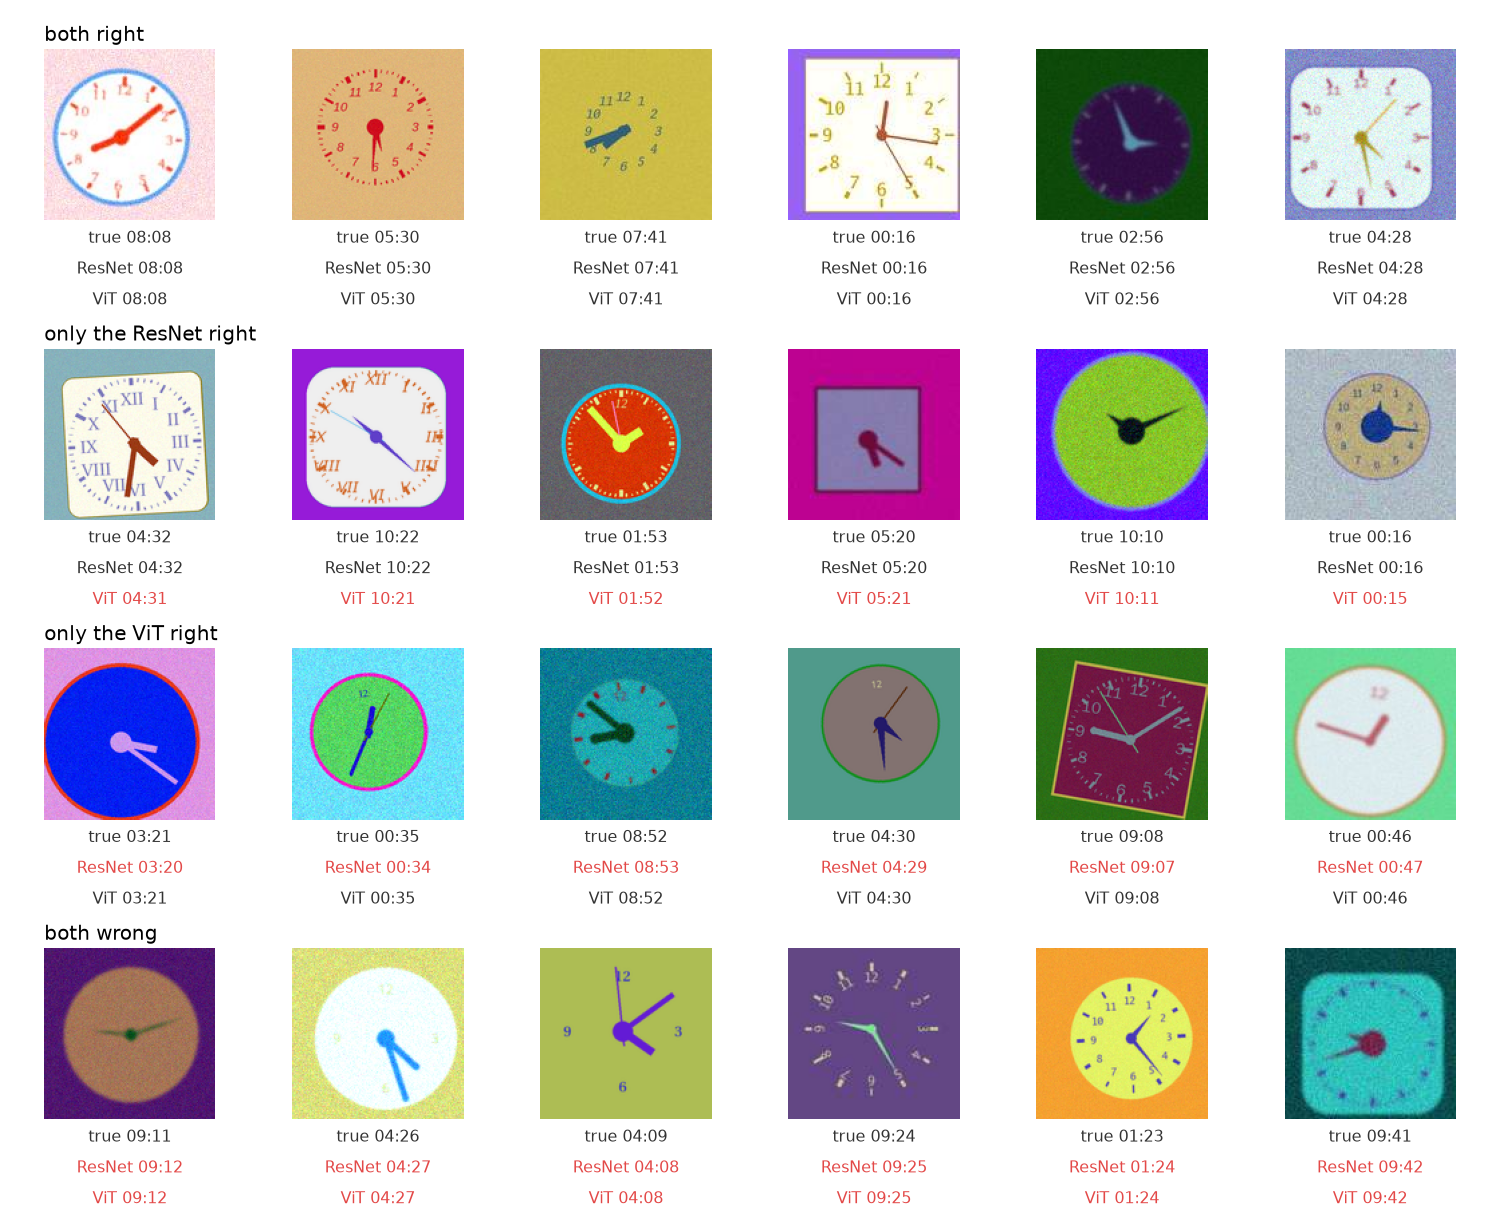
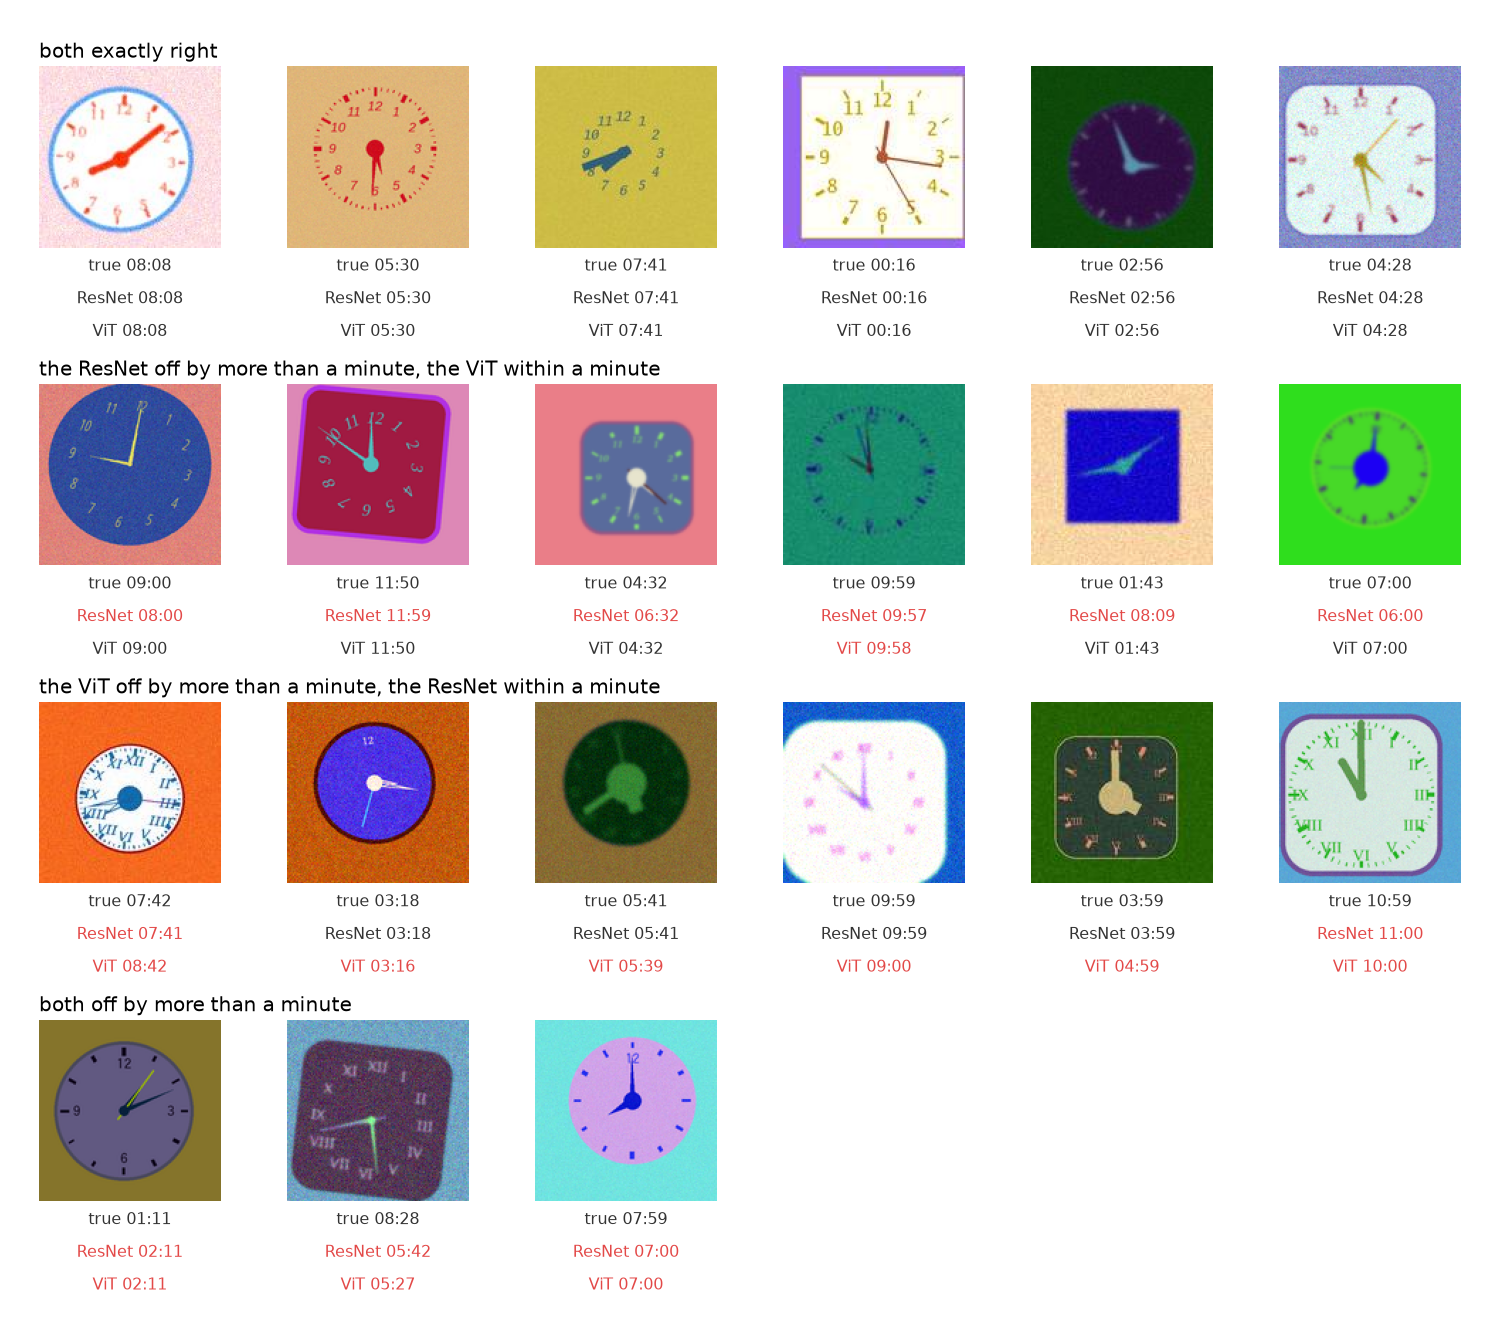
Part 3: wrong panels show only misses of more than a minute, and say why

diff --git a/_posts/2026-09-15-clocks-part-3-evaluation.md b/_posts/2026-09-15-clocks-part-3-evaluation.md
@@ -48,9 +48,22 @@ $$(\hat m - m + 30) \bmod 60 - 30$$ tells early from late.
 | vit_tiny | 0.544 | 0.946 | 0.549 | 0.892 | 1.1 min |
 
 Read across a row: the hour is almost never wrong, the minute is wrong one
-time in ten, and nearly all of those are within one minute. Whatever the
-models are doing, they are not confused about which clock they're looking
-at.
+time in ten, and nearly all of those are within one minute. Counting the
+hour and minute together as one time on a 12-hour dial, so that 3:59 read
+as 4:00 is one minute off rather than an hour and a minute:
+
+| held-out fonts, 10,000 clocks | exactly right | one minute off | more than a minute off |
+|---|---|---|---|
+| cnn_r34 | 8,938 | 1,035 | 27 |
+| vit_tiny_v2 (86 ep) | 8,986 | 1,002 | 12 |
+
+That last column is the one to keep in mind. A one-minute miss on a hand
+that is most of the way to the next mark is a call a person would make
+too, and Part 3 shows below that it's the renderer's doing. So the panels
+in this post that show the models getting it *wrong* show only the last
+column: the 27 and the 12 clocks in ten thousand where a model was off by
+more than a minute. Those are the real mistakes, and they're rare enough
+to look at one by one.
 
 ## What the predictions look like
 
@@ -59,7 +72,9 @@ Below, each model's answer is drawn as a pair of hands over the clock it
 was given: red for the ResNet, blue for the ViT, each with a black and
 white halo so it shows on any background, and the labelled time as thin
 yellow dashes on top. The clock itself is shown at a third of its colour
-saturation so the hands stand out from it. Where all three coincide, the model
+saturation so the hands stand out from it. The first row is clocks both
+models read exactly; the second and third are clocks where the ResNet, or
+the ViT, was off by more than a minute. Where all three coincide, the model
 read the clock. The clocks are from the held-out set, so every typeface
 here is one the models never saw. The geometry for the overlay comes from
 re-rendering each test image from its seed, which reproduces it pixel for
@@ -70,7 +85,7 @@ the models saw, only paler ([Figure 3.1](#fig-3-1)).
 
 ![Predicted hands from both models, ResNet in red and ViT in blue, drawn over twelve held-out clocks in three rows: both right, one wrong, both wrong](/assets/clocks/overlay_heldout.png){: .no-invert}
 
-**Figure 3.1.** Predicted hands from both models, ResNet in red and ViT in blue, drawn over twelve held-out clocks in three rows: both right, one wrong, both wrong.
+**Figure 3.1.** Predicted hands from both models, ResNet in red and ViT in blue, drawn over twelve held-out clocks: a row where both are exactly right, a row where the ResNet is off by more than a minute, a row where the ViT is.
 {: .figcap #fig-3-1}
 
 In the top row the three sets of hands are on top of each other. In the
@@ -89,21 +104,21 @@ points ([Figure 3.2](#fig-3-2)).
 
 ![Six held-out clocks, each beside a clean clock drawn from the ResNet's reading in red and one from the ViT's reading in blue](/assets/clocks/readback_heldout.png){: .no-invert}
 
-**Figure 3.2.** Six held-out clocks, each beside a clean clock drawn from the ResNet's reading in red and one from the ViT's reading in blue.
+**Figure 3.2.** Six held-out clocks, each beside a clean clock drawn from the ResNet's reading in red and one from the ViT's reading in blue. Rows 1 and 2 both right; rows 3 and 4 the ResNet off by more than a minute; rows 5 and 6 the ViT.
 {: .figcap #fig-3-2}
 
-Eight more clocks each model read correctly, and eight it didn't, sampled
-at random from the held-out set. The wrong readings are in red ([Figures 3.3](#fig-3-3)
+Eight more clocks each model read exactly, and eight of its misses of more
+than a minute, from the held-out set. The wrong readings are in red ([Figures 3.3](#fig-3-3)
 and [3.4](#fig-3-4)).
 
 ![ResNet-34 predictions on held-out fonts: eight right, eight wrong](/assets/clocks/preds_cnn_r34.png){: .no-invert}
 
-**Figure 3.3.** ResNet-34 predictions on held-out fonts: eight right, eight wrong.
+**Figure 3.3.** ResNet-34 predictions on held-out fonts: eight read exactly, and eight of its misses of more than a minute.
 {: .figcap #fig-3-3}
 
 ![ViT tiny v2 predictions on held-out fonts: eight right, eight wrong](/assets/clocks/preds_vit_tiny_v2.png){: .no-invert}
 
-**Figure 3.4.** ViT tiny v2 predictions on held-out fonts: eight right, eight wrong.
+**Figure 3.4.** ViT tiny v2 predictions on held-out fonts: eight read exactly, and eight of its misses of more than a minute.
 {: .figcap #fig-3-4}
 
 And the same on the test set rendered with training-pool fonts, which is
@@ -111,18 +126,19 @@ the distribution the models were trained on ([Figures 3.5](#fig-3-5) and [3.6](#
 
 ![ResNet-34 predictions on the seen-font test set: eight right, eight wrong](/assets/clocks/preds_test_cnn_r34.png){: .no-invert}
 
-**Figure 3.5.** ResNet-34 predictions on the seen-font test set: eight right, eight wrong.
+**Figure 3.5.** ResNet-34 predictions on the seen-font test set: eight read exactly, and eight of its misses of more than a minute.
 {: .figcap #fig-3-5}
 
 ![ViT tiny v2 predictions on the seen-font test set: eight right, eight wrong](/assets/clocks/preds_test_vit_tiny_v2.png){: .no-invert}
 
-**Figure 3.6.** ViT tiny v2 predictions on the seen-font test set: eight right, eight wrong.
+**Figure 3.6.** ViT tiny v2 predictions on the seen-font test set: eight read exactly, and eight of its misses of more than a minute.
 {: .figcap #fig-3-6}
 
-Look at the wrong rows. Every miss is one minute off, and most of them are
-one minute late. The model reads 04:31 where the label says 04:32. Nothing
-is off by an hour, nothing has confused the hands, nothing has been thrown
-by a typeface.
+Look at the wrong rows and notice what is *not* there: nothing has been
+thrown by a typeface, the very thing this test set was built to catch.
+What is there is the hour hand read one numeral over, and a few swapped
+hands. The one-minute misses, ten times more common than these, are dealt
+with next.
 
 ## Every miss is one minute, and usually late
 
@@ -268,7 +284,7 @@ ViT alone on 5.9%. Either one right: 95.3% ([Figure 3.11](#fig-3-11)).
 
 ![Held-out clocks where both models are right, only the ResNet is right, only the ViT is right, and both are wrong](/assets/clocks/compare_heldout.png){: .no-invert}
 
-**Figure 3.11.** Held-out clocks where both models are right, only the ResNet is right, only the ViT is right, and both are wrong.
+**Figure 3.11.** Held-out clocks where both models are exactly right, where only the ResNet is off by more than a minute, where only the ViT is, and the three where both are.
 {: .figcap #fig-3-11}
 
 The disagreements are all one-minute disagreements, in both directions,
